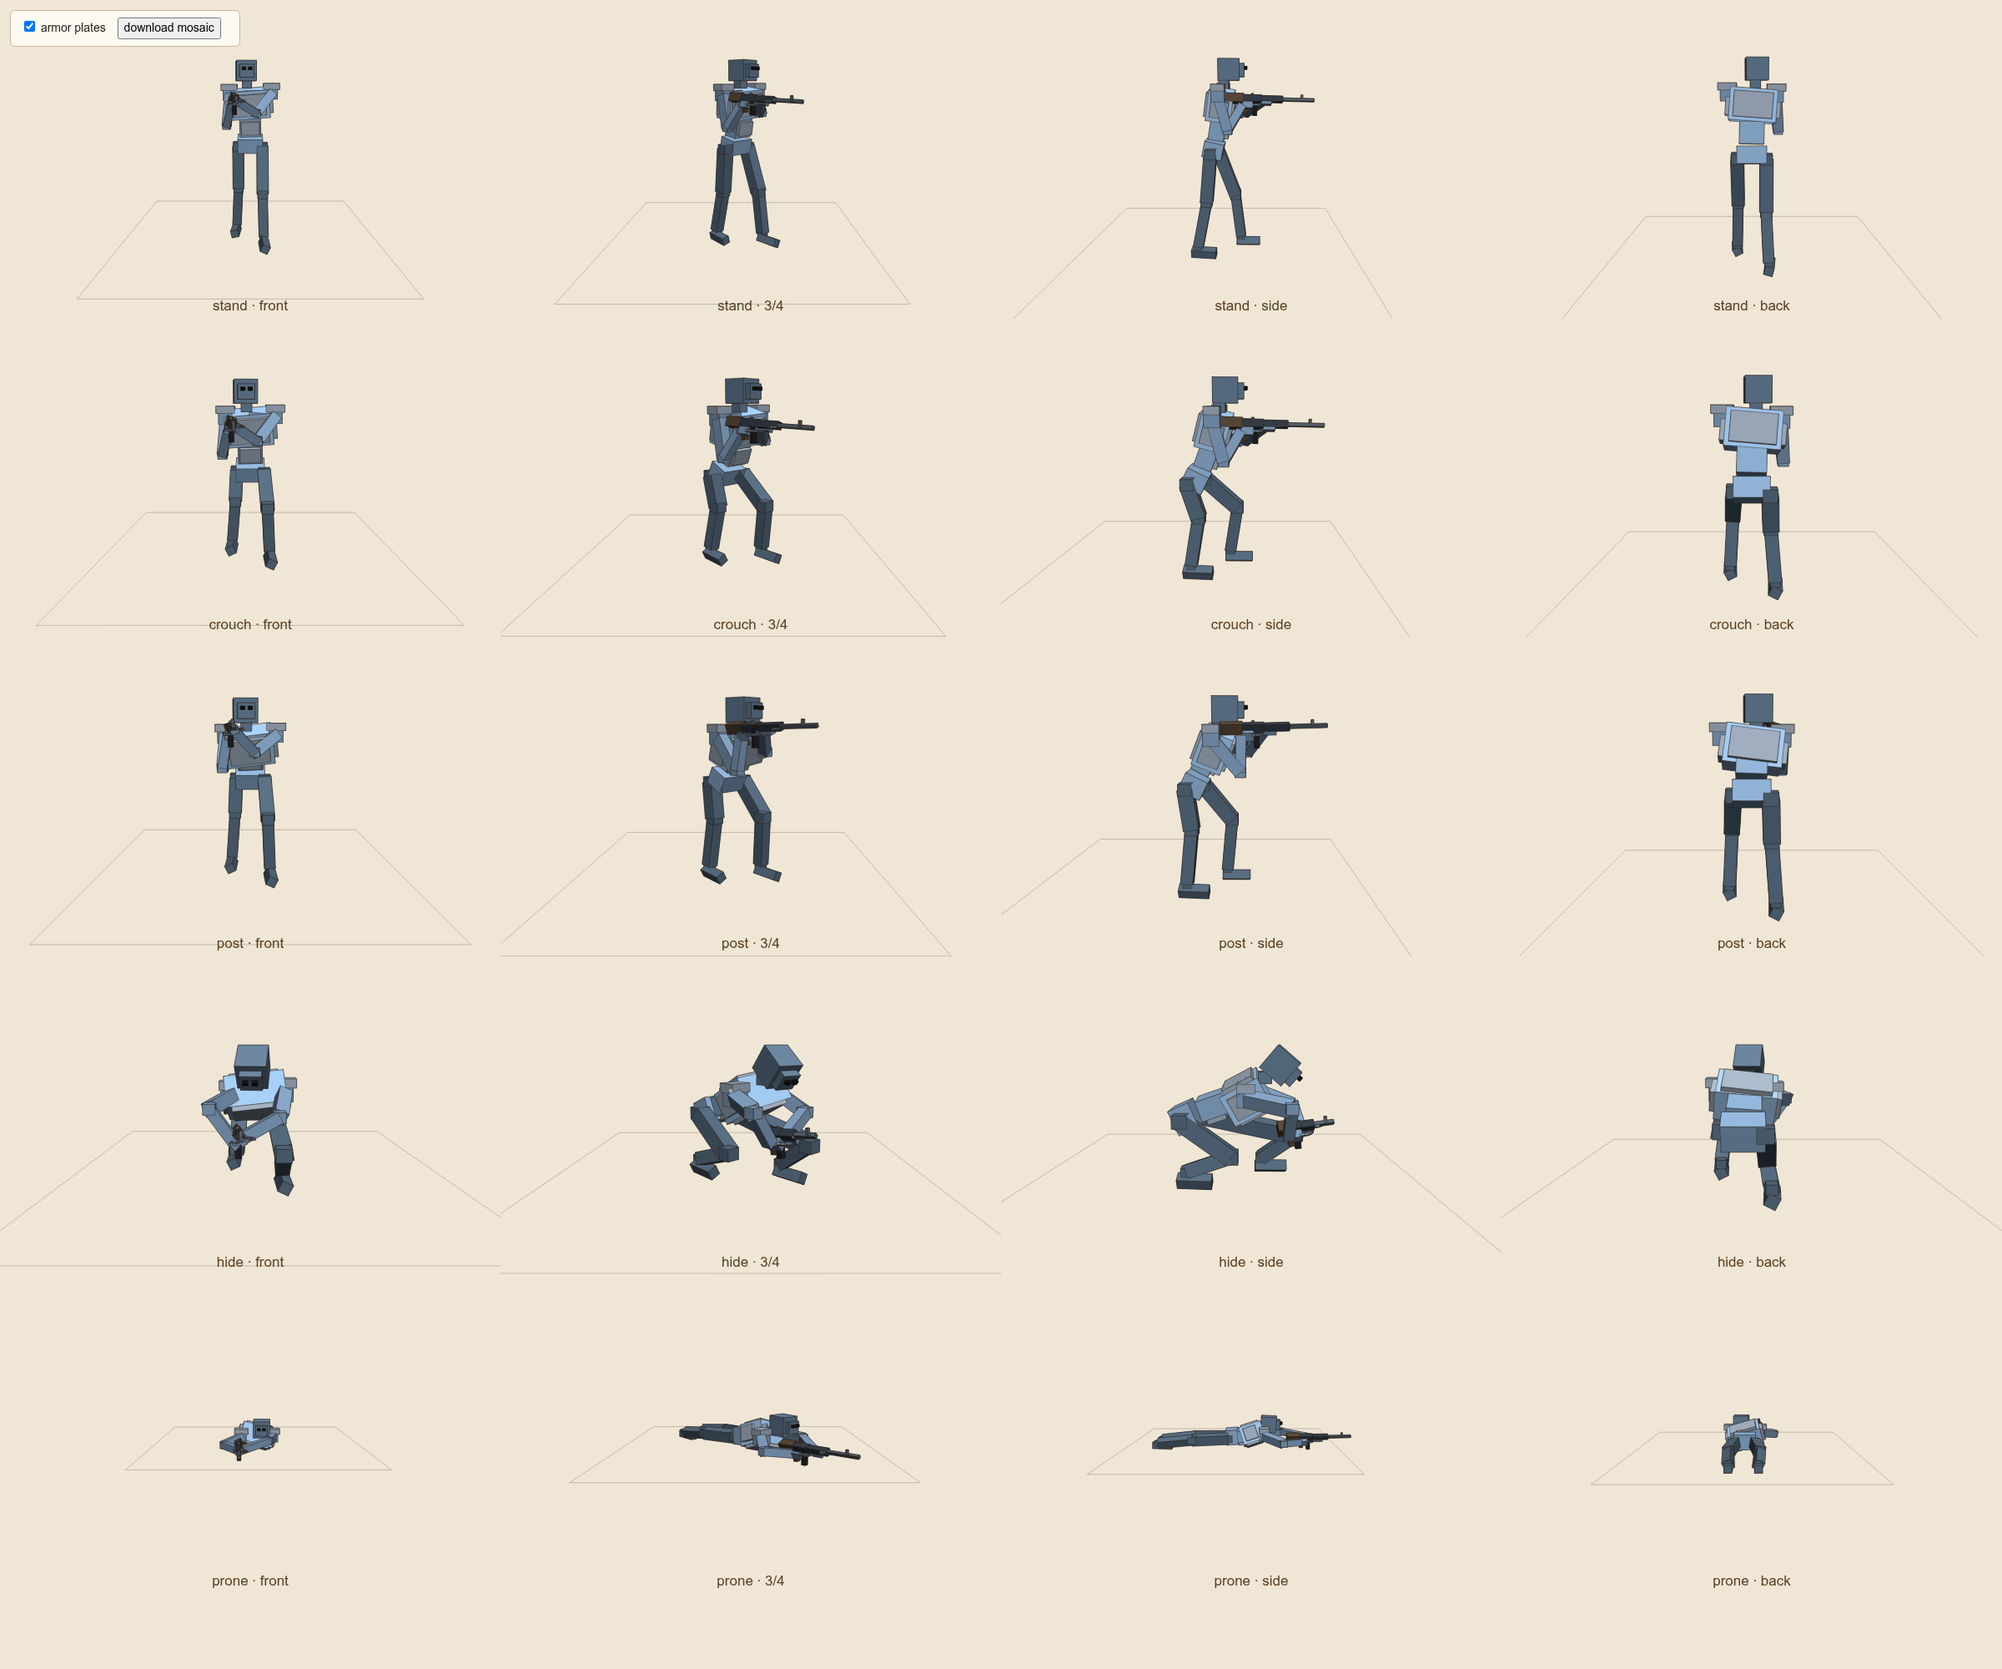
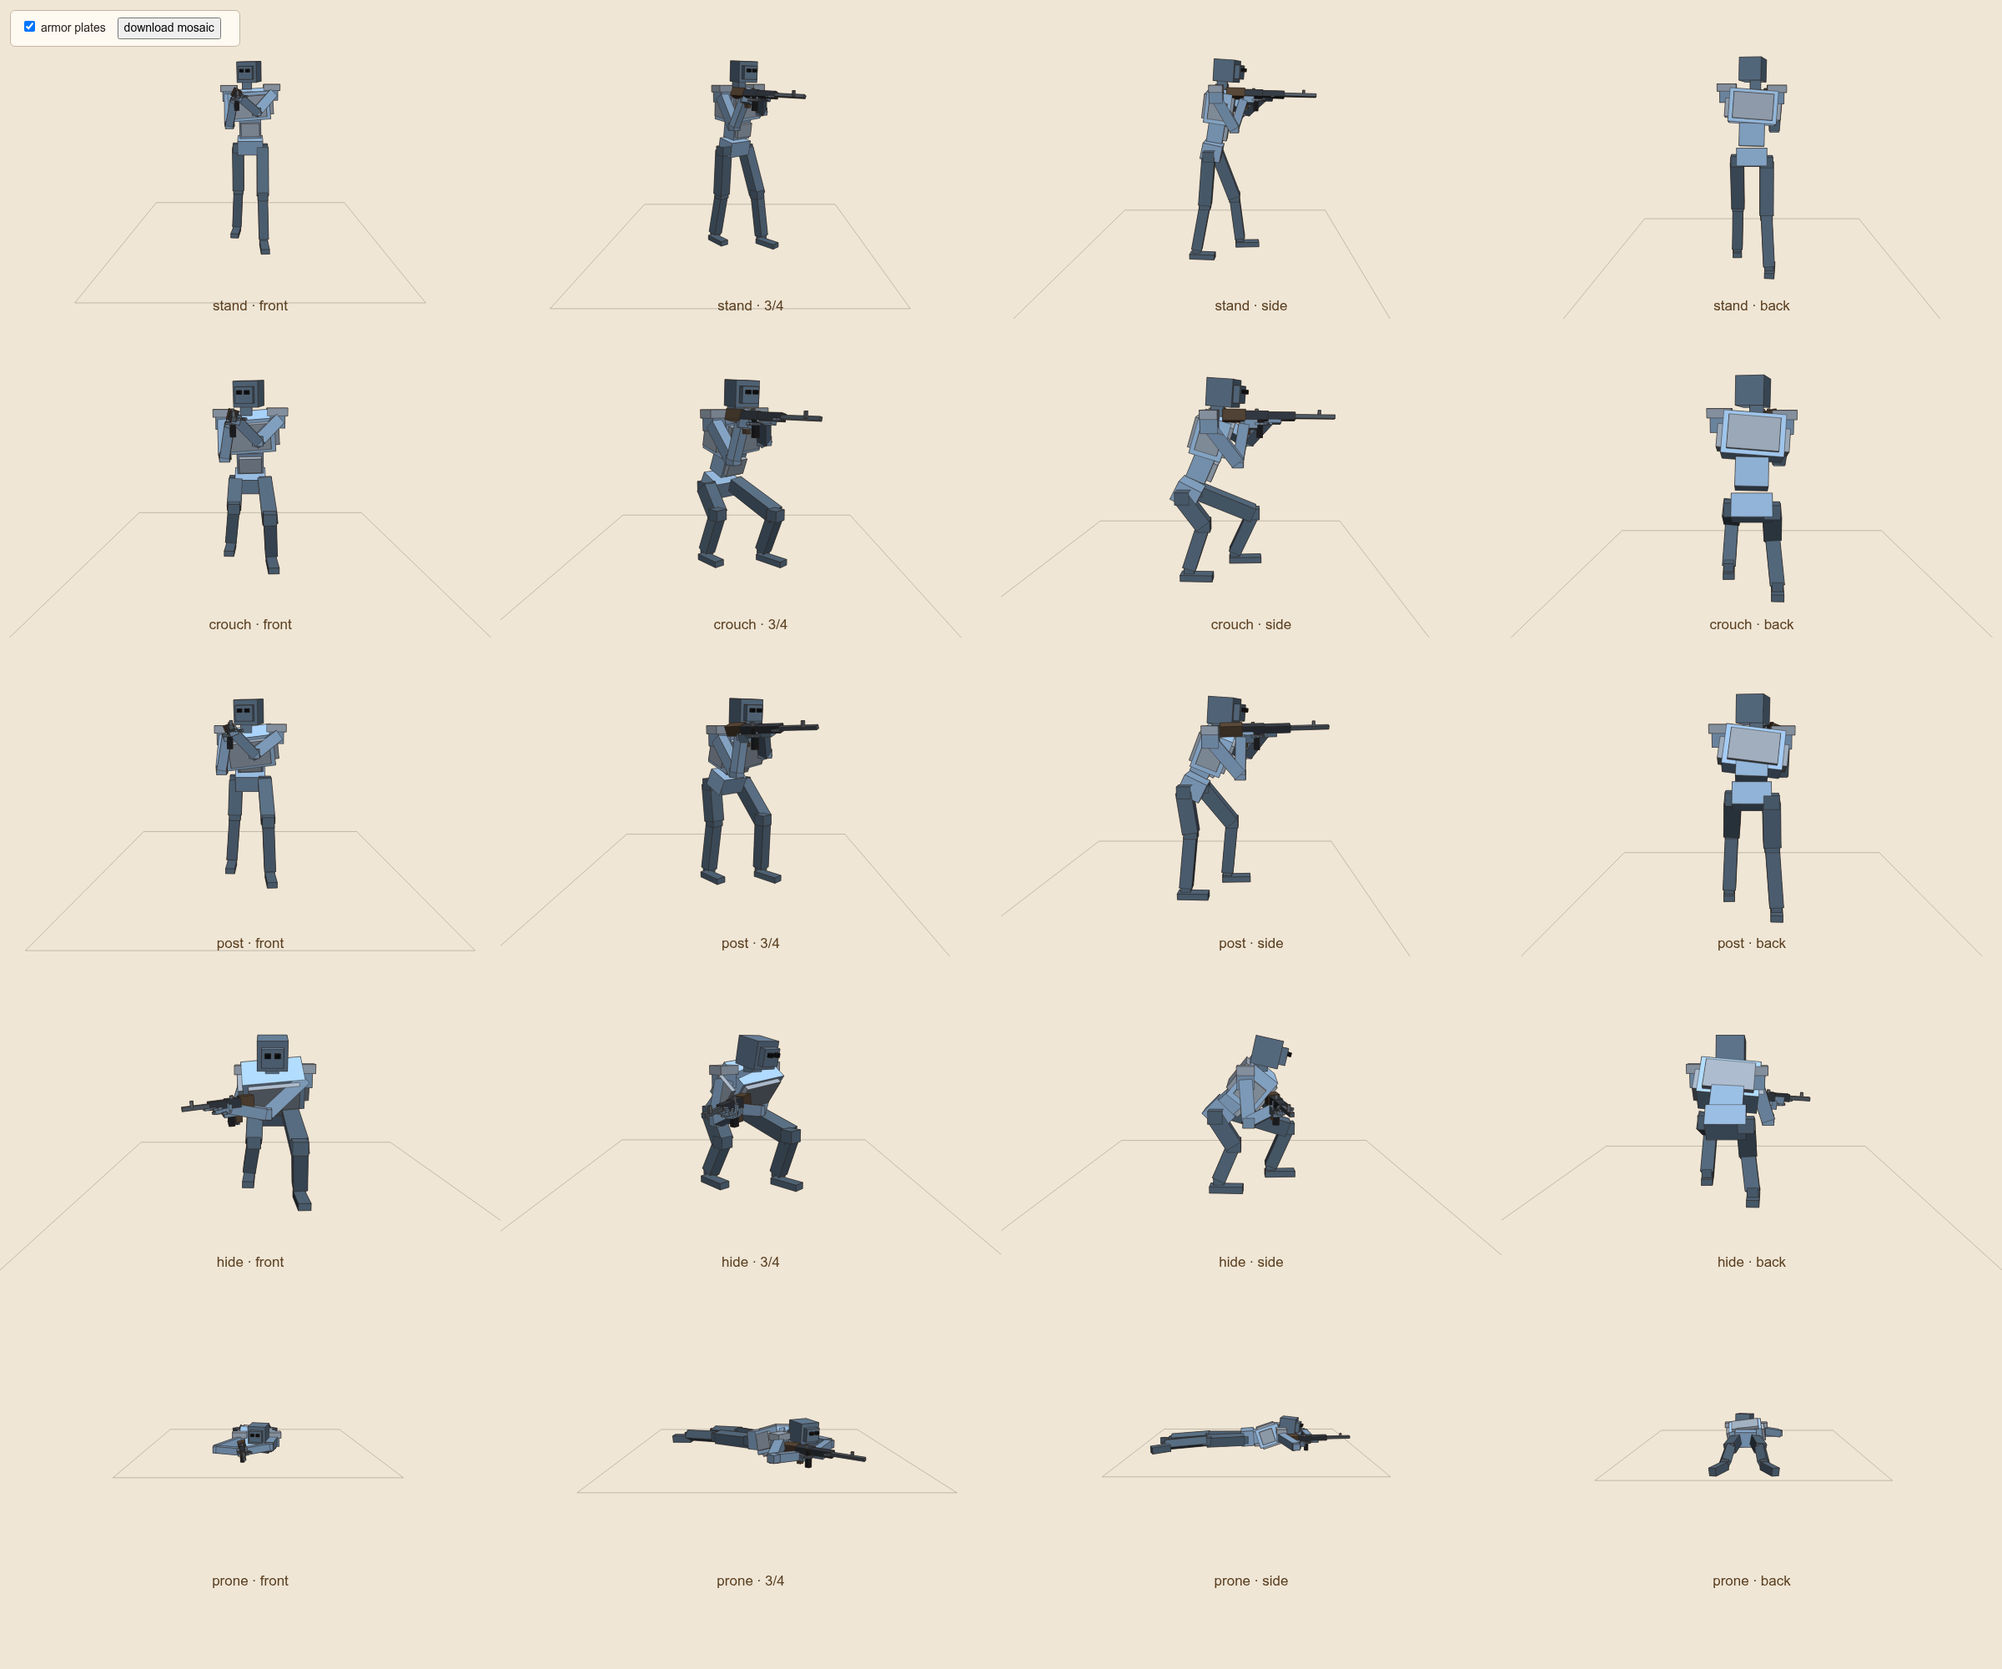
Keep stand, crouch, post, and prone as a working set.
Flat planted feet, a cheek-weld sight picture, and a milder hide squat — hide gun carry still needs a pass.

diff --git a/sandbox/web/engine/body.js b/sandbox/web/engine/body.js
@@ -86,6 +86,17 @@ function bone(name, a, b, rad, extra = {}) {
   return part(name, rad, rad, half, mid3(a, b), orientZ(d.x, d.y, d.z), extra);
 }
 
+function flatFoot(name, heel, toe) {
+  const dx = toe.x - heel.x;
+  const dy = toe.y - heel.y;
+  const halfLen = Math.max(0.05, Math.hypot(dx, dy) * 0.5);
+  return part(name, 0.038, halfLen, 0.022, {
+    x: (heel.x + toe.x) * 0.5,
+    y: (heel.y + toe.y) * 0.5,
+    z: 0.028,
+  }, { rx: 0, ry: 0, rz: Math.atan2(-dx, dy) });
+}
+
 function ball(name, p, rad, extra = {}) {
   return part(name, rad, rad, rad * 0.88, p, {}, extra);
 }
@@ -137,8 +148,13 @@ function addHand(out, prefix, wrist, forward, extra = {}) {
 function assemble(j) {
   const p = [];
   const look = j.look || { x: 0, y: 1, z: 0 };
-  p.push(bone("l_foot", j.l_heel, j.l_toe, 0.036));
-  p.push(bone("r_foot", j.r_heel, j.r_toe, 0.036));
+  if (j.proneFeet) {
+    p.push(bone("l_foot", j.l_heel, j.l_toe, 0.036));
+    p.push(bone("r_foot", j.r_heel, j.r_toe, 0.036));
+  } else {
+    p.push(flatFoot("l_foot", j.l_heel, j.l_toe));
+    p.push(flatFoot("r_foot", j.r_heel, j.r_toe));
+  }
   p.push(ball("l_ankle", j.l_ankle, 0.034));
   p.push(ball("r_ankle", j.r_ankle, 0.034));
   p.push(bone("l_shin", j.l_knee, j.l_ankle, 0.044));
@@ -242,6 +258,10 @@ function rifleJoints(base, stock, muzzle, opt = {}) {
   };
 }
 
+function aimLook() {
+  return { x: 0.28, y: 1, z: -0.08 };
+}
+
 function standJoints() {
   const hips = {
     l_heel: { x: -0.13, y: 0.18, z: 0.03 },
@@ -258,34 +278,34 @@ function standJoints() {
     abdomen: { x: 0.00, y: 0.02, z: 1.14 },
     chest: { x: 0.01, y: 0.05, z: 1.36 },
     neck: { x: 0.03, y: 0.08, z: 1.54 },
-    skull: { x: 0.04, y: 0.12, z: 1.66 },
+    skull: { x: 0.01, y: 0.12, z: 1.66 },
     l_shoulder: { x: -0.20, y: 0.06, z: 1.45 },
     r_shoulder: { x: 0.20, y: 0.04, z: 1.44 },
   };
-  return rifleJoints(hips, { x: 0.16, y: 0.10, z: 1.42 }, { x: 0.10, y: 0.86, z: 1.40 });
+  return { ...rifleJoints(hips, { x: 0.13, y: 0.12, z: 1.47 }, { x: 0.09, y: 0.88, z: 1.45 }), look: aimLook() };
 }
 
 function crouchJoints() {
   const hips = {
     l_heel: { x: -0.16, y: 0.16, z: 0.03 },
-    l_toe: { x: -0.17, y: 0.38, z: 0.025 },
+    l_toe: { x: -0.17, y: 0.40, z: 0.025 },
     l_ankle: { x: -0.16, y: 0.20, z: 0.09 },
-    l_knee: { x: -0.14, y: 0.26, z: 0.46 },
-    l_hip: { x: -0.12, y: 0.00, z: 0.70 },
-    r_heel: { x: 0.16, y: -0.14, z: 0.03 },
-    r_toe: { x: 0.17, y: 0.08, z: 0.025 },
-    r_ankle: { x: 0.16, y: -0.08, z: 0.09 },
-    r_knee: { x: 0.13, y: -0.02, z: 0.45 },
-    r_hip: { x: 0.12, y: -0.10, z: 0.70 },
-    pelvis: { x: 0.00, y: -0.05, z: 0.72 },
-    abdomen: { x: 0.00, y: 0.04, z: 0.90 },
-    chest: { x: 0.01, y: 0.10, z: 1.10 },
-    neck: { x: 0.03, y: 0.14, z: 1.26 },
-    skull: { x: 0.04, y: 0.18, z: 1.38 },
-    l_shoulder: { x: -0.20, y: 0.12, z: 1.18 },
-    r_shoulder: { x: 0.20, y: 0.10, z: 1.17 },
+    l_knee: { x: -0.14, y: 0.34, z: 0.40 },
+    l_hip: { x: -0.12, y: -0.08, z: 0.58 },
+    r_heel: { x: 0.16, y: -0.16, z: 0.03 },
+    r_toe: { x: 0.17, y: 0.06, z: 0.025 },
+    r_ankle: { x: 0.16, y: -0.10, z: 0.09 },
+    r_knee: { x: 0.13, y: 0.00, z: 0.39 },
+    r_hip: { x: 0.12, y: -0.14, z: 0.58 },
+    pelvis: { x: 0.00, y: -0.12, z: 0.59 },
+    abdomen: { x: 0.00, y: -0.02, z: 0.78 },
+    chest: { x: 0.01, y: 0.06, z: 1.00 },
+    neck: { x: 0.03, y: 0.10, z: 1.16 },
+    skull: { x: 0.01, y: 0.14, z: 1.28 },
+    l_shoulder: { x: -0.20, y: 0.08, z: 1.08 },
+    r_shoulder: { x: 0.20, y: 0.06, z: 1.07 },
   };
-  return rifleJoints(hips, { x: 0.16, y: 0.16, z: 1.15 }, { x: 0.10, y: 0.90, z: 1.13 });
+  return { ...rifleJoints(hips, { x: 0.13, y: 0.14, z: 1.13 }, { x: 0.09, y: 0.88, z: 1.12 }), look: aimLook() };
 }
 
 function postJoints(aimZ) {
@@ -304,75 +324,78 @@ function postJoints(aimZ) {
     abdomen: { x: 0.00, y: 0.06, z: 0.98 },
     chest: { x: 0.01, y: 0.12, z: aimZ - 0.16 },
     neck: { x: 0.03, y: 0.16, z: aimZ - 0.01 },
-    skull: { x: 0.04, y: 0.20, z: aimZ + 0.11 },
+    skull: { x: 0.01, y: 0.20, z: aimZ + 0.11 },
     l_shoulder: { x: -0.20, y: 0.14, z: aimZ - 0.08 },
     r_shoulder: { x: 0.20, y: 0.12, z: aimZ - 0.09 },
   };
-  return rifleJoints(hips, { x: 0.16, y: 0.18, z: aimZ - 0.02 }, { x: 0.10, y: 0.92, z: aimZ });
+  return { ...rifleJoints(hips, { x: 0.16, y: 0.18, z: aimZ - 0.02 }, { x: 0.11, y: 0.92, z: aimZ }), look: aimLook() };
 }
 
 function hideJoints(lip) {
-  const lShoulder = { x: -0.17, y: 0.18, z: 0.58 };
-  const rShoulder = { x: 0.17, y: 0.14, z: 0.56 };
-  const stock = { x: 0.13, y: 0.34, z: 0.36 };
-  const muzzle = { x: 0.09, y: 0.70, z: Math.min(lip - 0.58, 0.40) };
+  const lShoulder = { x: -0.18, y: 0.08, z: 0.76 };
+  const rShoulder = { x: 0.18, y: 0.04, z: 0.75 };
+  const stock = { x: 0.14, y: 0.20, z: 0.64 };
+  const muzzle = { x: 0.56, y: 0.30, z: 0.60 };
   return {
-    l_heel: { x: -0.16, y: 0.20, z: 0.03 },
-    l_toe: { x: -0.17, y: 0.42, z: 0.025 },
-    l_ankle: { x: -0.16, y: 0.24, z: 0.09 },
-    l_knee: { x: -0.15, y: 0.48, z: 0.26 },
-    l_hip: { x: -0.12, y: -0.22, z: 0.42 },
-    r_heel: { x: 0.16, y: -0.30, z: 0.03 },
-    r_toe: { x: 0.17, y: -0.08, z: 0.025 },
-    r_ankle: { x: 0.16, y: -0.24, z: 0.09 },
-    r_knee: { x: 0.14, y: 0.04, z: 0.18 },
-    r_hip: { x: 0.12, y: -0.28, z: 0.41 },
-    pelvis: { x: 0.00, y: -0.26, z: 0.42 },
-    abdomen: { x: 0.00, y: -0.08, z: 0.50 },
-    chest: { x: 0.01, y: 0.14, z: 0.56 },
-    neck: { x: 0.02, y: 0.26, z: 0.68 },
-    skull: { x: 0.03, y: 0.36, z: Math.min(lip - 0.32, 0.76) },
+    l_heel: { x: -0.16, y: 0.18, z: 0.03 },
+    l_toe: { x: -0.17, y: 0.40, z: 0.025 },
+    l_ankle: { x: -0.16, y: 0.22, z: 0.09 },
+    l_knee: { x: -0.14, y: 0.34, z: 0.38 },
+    l_hip: { x: -0.12, y: -0.10, z: 0.52 },
+    r_heel: { x: 0.16, y: -0.20, z: 0.03 },
+    r_toe: { x: 0.17, y: 0.02, z: 0.025 },
+    r_ankle: { x: 0.16, y: -0.14, z: 0.09 },
+    r_knee: { x: 0.13, y: -0.04, z: 0.32 },
+    r_hip: { x: 0.12, y: -0.16, z: 0.51 },
+    pelvis: { x: 0.00, y: -0.14, z: 0.52 },
+    abdomen: { x: 0.00, y: -0.04, z: 0.62 },
+    chest: { x: 0.01, y: 0.08, z: 0.72 },
+    neck: { x: 0.02, y: 0.14, z: 0.84 },
+    skull: { x: 0.02, y: 0.18, z: Math.min(lip - 0.22, 0.94) },
     l_shoulder: lShoulder,
     r_shoulder: rShoulder,
     ...rifleJoints({ l_shoulder: lShoulder, r_shoulder: rShoulder }, stock, muzzle, {
-      rHint: { x: 0.04, y: 0.10, z: -0.02 },
-      lHint: { x: -0.03, y: 0.12, z: -0.02 },
+      rAlong: 0.18,
+      lAlong: 0.40,
     }),
-    look: { x: 0.10, y: 0.72, z: -0.62 },
+    r_elbow: { x: 0.26, y: 0.06, z: 0.50 },
+    l_elbow: { x: 0.06, y: 0.22, z: 0.56 },
+    look: { x: 0.04, y: 1, z: -0.22 },
   };
 }
 
 function proneJoints() {
   const lShoulder = { x: -0.18, y: 0.38, z: 0.16 };
   const rShoulder = { x: 0.18, y: 0.38, z: 0.16 };
-  const stock = { x: 0.20, y: 0.64, z: 0.15 };
-  const muzzle = { x: 0.18, y: 1.38, z: 0.16 };
+  const stock = { x: 0.16, y: 0.42, z: 0.14 };
+  const muzzle = { x: 0.12, y: 1.16, z: 0.15 };
   return {
-    l_heel: { x: -0.14, y: -0.92, z: 0.05 },
-    l_toe: { x: -0.14, y: -0.70, z: 0.04 },
-    l_ankle: { x: -0.14, y: -0.86, z: 0.07 },
+    l_heel: { x: -0.18, y: -0.88, z: 0.04 },
+    l_toe: { x: -0.28, y: -1.06, z: 0.03 },
+    l_ankle: { x: -0.18, y: -0.92, z: 0.07 },
     l_knee: { x: -0.16, y: -0.46, z: 0.11 },
     l_hip: { x: -0.11, y: -0.04, z: 0.12 },
-    r_heel: { x: 0.14, y: -0.92, z: 0.05 },
-    r_toe: { x: 0.14, y: -0.70, z: 0.04 },
-    r_ankle: { x: 0.14, y: -0.86, z: 0.07 },
+    r_heel: { x: 0.18, y: -0.88, z: 0.04 },
+    r_toe: { x: 0.28, y: -1.06, z: 0.03 },
+    r_ankle: { x: 0.18, y: -0.92, z: 0.07 },
     r_knee: { x: 0.16, y: -0.46, z: 0.11 },
     r_hip: { x: 0.11, y: -0.04, z: 0.12 },
     pelvis: { x: 0.00, y: 0.00, z: 0.13 },
     abdomen: { x: 0.00, y: 0.14, z: 0.14 },
     chest: { x: 0.00, y: 0.24, z: 0.15 },
-    neck: { x: -0.02, y: 0.36, z: 0.21 },
-    skull: { x: -0.05, y: 0.44, z: 0.27 },
+    neck: { x: -0.01, y: 0.38, z: 0.22 },
+    skull: { x: -0.02, y: 0.48, z: 0.26 },
     l_shoulder: lShoulder,
     r_shoulder: rShoulder,
     ...rifleJoints({ l_shoulder: lShoulder, r_shoulder: rShoulder }, stock, muzzle, {
-      rAlong: 0.20,
-      lAlong: 0.44,
-      rHint: { x: 0.18, y: -0.02, z: -0.06 },
-      lHint: { x: -0.14, y: 0.04, z: 0.02 },
-      elbowMinZ: 0.11,
+      rAlong: 0.19,
+      lAlong: 0.40,
+      rHint: { x: 0.16, y: 0.00, z: -0.04 },
+      lHint: { x: -0.12, y: 0.04, z: 0.02 },
+      elbowMinZ: 0.10,
     }),
-    look: { x: 0.04, y: 1, z: -0.04 },
+    look: aimLook(),
+    proneFeet: true,
   };
 }
 

diff --git a/sandbox/web/engine/smoke.js b/sandbox/web/engine/smoke.js
@@ -1,5 +1,11 @@
-import { Engine, actionCost, defaultWorld, unitHitboxes } from "./engine.js";
+import { Engine, actionCost, unitHitboxes } from "./engine.js";
 import { ActionType, Gait, ShotMode, AimRegion, Posture } from "./model.js";
+import { CoverMode } from "./cover.js";
+import { localHitboxes, clipReport, formatClipReport } from "./body.js";
+import { loadRepoCatalog, worldFromCatalog } from "./catalog-node.js";
+
+const catalog = loadRepoCatalog();
+const courtyard = () => worldFromCatalog(catalog, "duel_2v2");
 
 function fail(msg) {
   console.error(msg);
@@ -7,7 +13,7 @@ function fail(msg) {
 }
 
 function toPlay(eng) {
-  if (!eng.loadWorld(defaultWorld())) fail("load failed");
+  if (!eng.loadWorld(courtyard())) fail("load failed");
   for (const u of eng.world.units) u.contact_ready = true;
   const start = [];
   eng.maybeFinishContact(start);
@@ -16,13 +22,25 @@ function toPlay(eng) {
 
 {
   const skip = new Engine();
-  if (!skip.loadWorld(defaultWorld())) fail("skip load failed");
+  if (!skip.loadWorld(courtyard())) fail("skip load failed");
   if (skip.world.phase !== "play") fail("skip_contact should start in play");
   const held = new Engine();
-  const raw = defaultWorld();
+  const raw = courtyard();
   raw.skip_contact = false;
   if (!held.loadWorld(raw)) fail("contact load failed");
   if (held.world.phase !== "contact") fail("skip_contact false should start in contact");
+  const posted = new Engine();
+  if (!posted.loadWorld(worldFromCatalog(catalog, "posted_courtyard"))) fail("posted load failed");
+  const modes = posted.world.units.map((u) => u.cover_use?.mode);
+  if (modes[0] !== "post" || modes[1] !== "hide" || modes[2] !== "post" || modes[3] !== "hide") {
+    fail(`posted courtyard starting cover: ${JSON.stringify(modes)}`);
+  }
+  if (posted.world.units[0].weapon_id !== "rifle") fail("characters should carry the catalog rifle");
+  const chk = worldFromCatalog(catalog, "checkpoint");
+  if (chk.map.cover.filter((c) => c.height > 2).length < 3) fail("checkpoint should have building-height walls");
+  const fence = chk.map.cover.find((c) => c.id === "fence-south");
+  if (!fence || fence.color === "#6a7b66") fail("fences should be a distinct color");
+  if (!chk.map.cover.some((c) => c.id === "crate-lane" && c.height < 1.3)) fail("checkpoint should keep some postable crates");
 }
 
 const eng = new Engine();
@@ -33,6 +51,34 @@ console.log("play", eng.world.phase, "active", eng.world.active, start.map((e) =
 const actor = eng.world.active;
 const me = eng.world.units.find((u) => u.id === actor);
 const enemy = eng.world.units.find((u) => u.team !== me.team && !u.downed);
+{
+  const boxes = unitHitboxes(me);
+  const names = new Set(boxes.map((b) => b.name));
+  for (const need of ["l_pinky_dist", "r_index_prox", "l_knee", "skull", "front_plate", "abdomen_plate"]) {
+    if (!names.has(need)) fail(`body is missing ${need}`);
+  }
+  if (!boxes.some((b) => b.armor && b.plate === "front_plate")) fail("front plate should be armor geometry");
+  if (!names.has("l_eye") || !names.has("r_eye")) fail("head should have both eyes");
+}
+
+{
+  const armor = [
+    { id: "front_plate" }, { id: "back_plate" }, { id: "l_side_plate" },
+    { id: "r_side_plate" }, { id: "abdomen_plate" }, { id: "l_shoulder_pad" },
+    { id: "r_shoulder_pad" },
+  ];
+  const samples = [
+    ["stand", Posture.Standing, null],
+    ["crouch", Posture.Crouching, null],
+    ["post", Posture.Crouching, { mode: CoverMode.Post, lip: 1.15 }],
+    ["hide", Posture.Crouching, { mode: CoverMode.Hide, lip: 1.15 }],
+    ["prone", Posture.Prone, null],
+  ];
+  for (const [label, posture, cover] of samples) {
+    const parts = localHitboxes(posture, cover, { armor });
+    console.log(formatClipReport(label, clipReport(parts)));
+  }
+}
 const planned = eng.previewSchedule({ type: ActionType.Shoot, actor, target: enemy.id, shot: ShotMode.Snap });
 if (!planned.ok) fail(`previewSchedule snap failed: ${planned.error}`);
 if (eng.queue.length) fail("previewSchedule must not queue");
@@ -81,9 +127,9 @@ console.log("tight open", tight.p_hit.toFixed(2), "r", tight.radius.toFixed(3));
 if (tight.p_hit < 0.98) fail("tiny disk fully on torso should be ~100%");
 me.weapon_spread = savedSpread;
 eng.world.map.cover = savedCover;
-const belly = eng.previewShot(actor, enemy.id, ShotMode.Snap, AimRegion.Torso, { x: 0, z: 0.88 });
+const belly = eng.previewShot(actor, enemy.id, ShotMode.Snap, AimRegion.Torso, { x: 0, z: 0.80 });
 console.log("abdomen", "hit", belly.p_hit.toFixed(2), "cover", belly.p_cover.toFixed(2));
-if (belly.p_cover < 0.45) fail("abdomen behind courtyard cover should clip");
+if (belly.p_cover < 0.28) fail("abdomen behind courtyard cover should clip");
 const center = eng.defaultAimOffset(enemy.id, AimRegion.Torso);
 const head = eng.defaultAimOffset(enemy.id, AimRegion.Head);
 console.log("centers", "torso", center.x.toFixed(2), center.z.toFixed(2), "head", head.x.toFixed(2), head.z.toFixed(2));
@@ -110,8 +156,8 @@ if (left.aim_world.y <= right.aim_world.y) fail("silhouette left should map to s
   const hide = eng.schedule({ type: ActionType.CoverHide, actor });
   if (!hide.ok) fail(`hide after post should queue: ${hide.error}`);
   const hidden = eng.previewActor(me);
-  const head = hidden && unitHitboxes(hidden).find((b) => b.name === "head");
-  const headTop = head ? Math.max(...head.corners.map((p) => p.z)) : 99;
+  const skull = hidden && unitHitboxes(hidden).find((b) => b.name === "skull");
+  const headTop = skull ? Math.max(...skull.corners.map((p) => p.z)) : 99;
   if (headTop > crate.height - 0.02) fail(`hidden head should be below the lip: ${headTop} vs ${crate.height}`);
   eng.clearQueue();
 }
